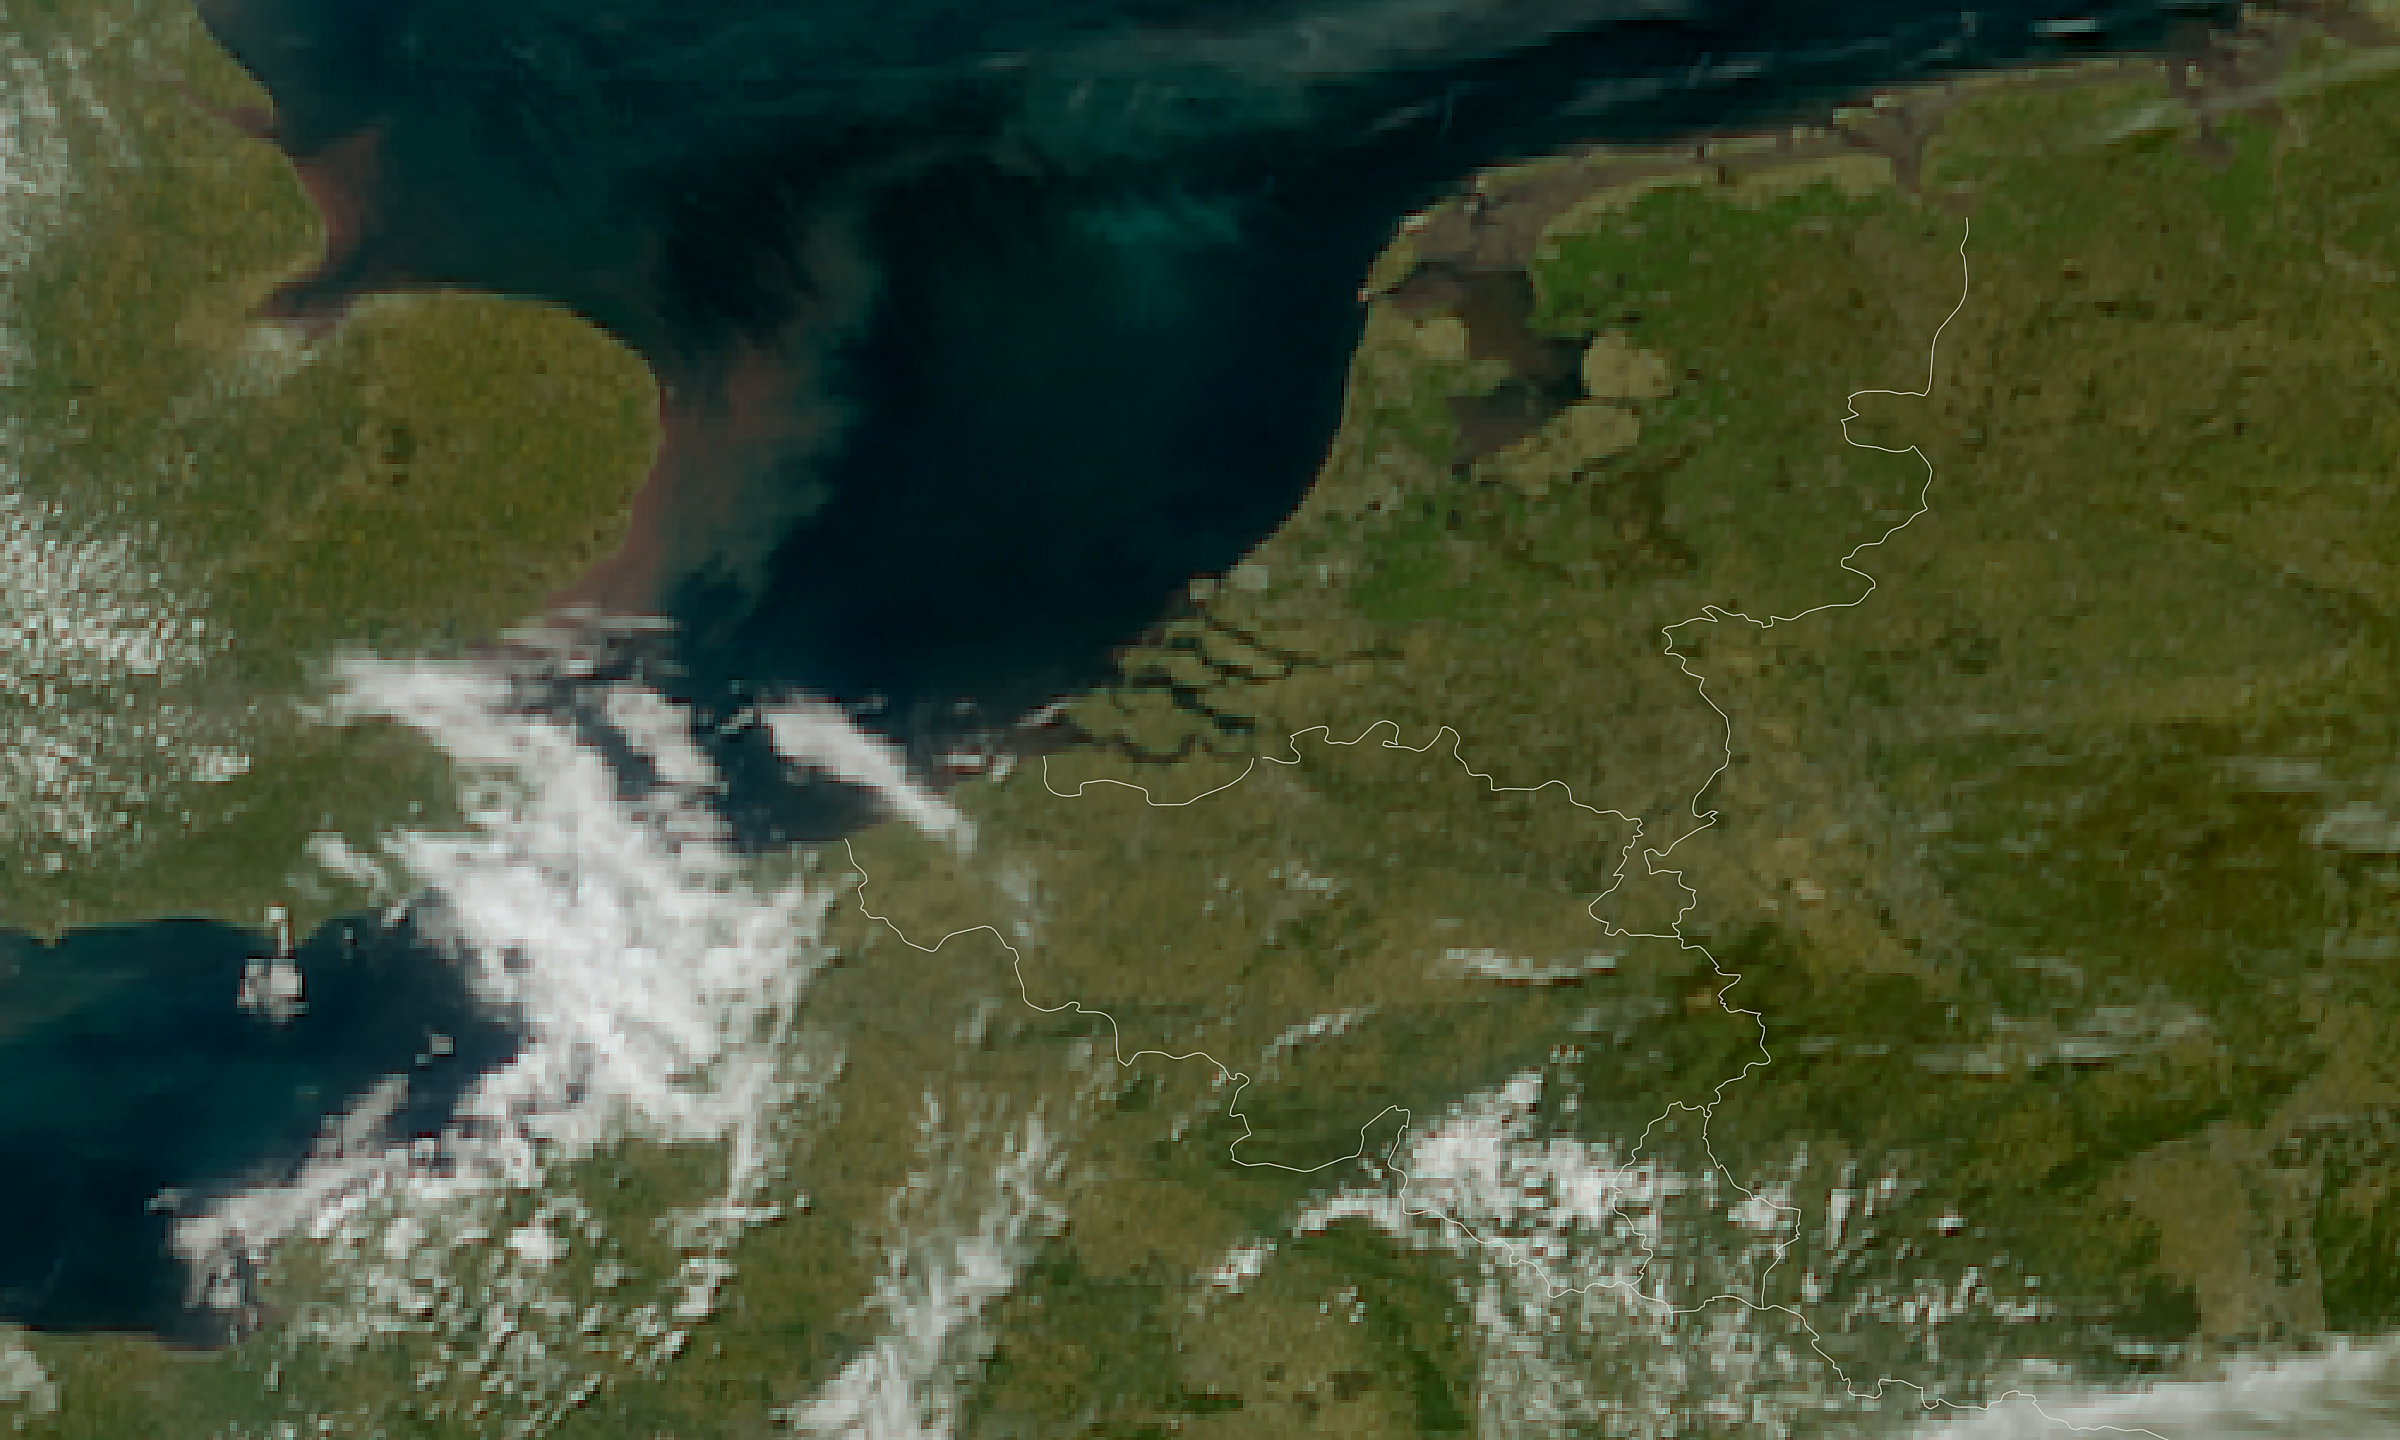
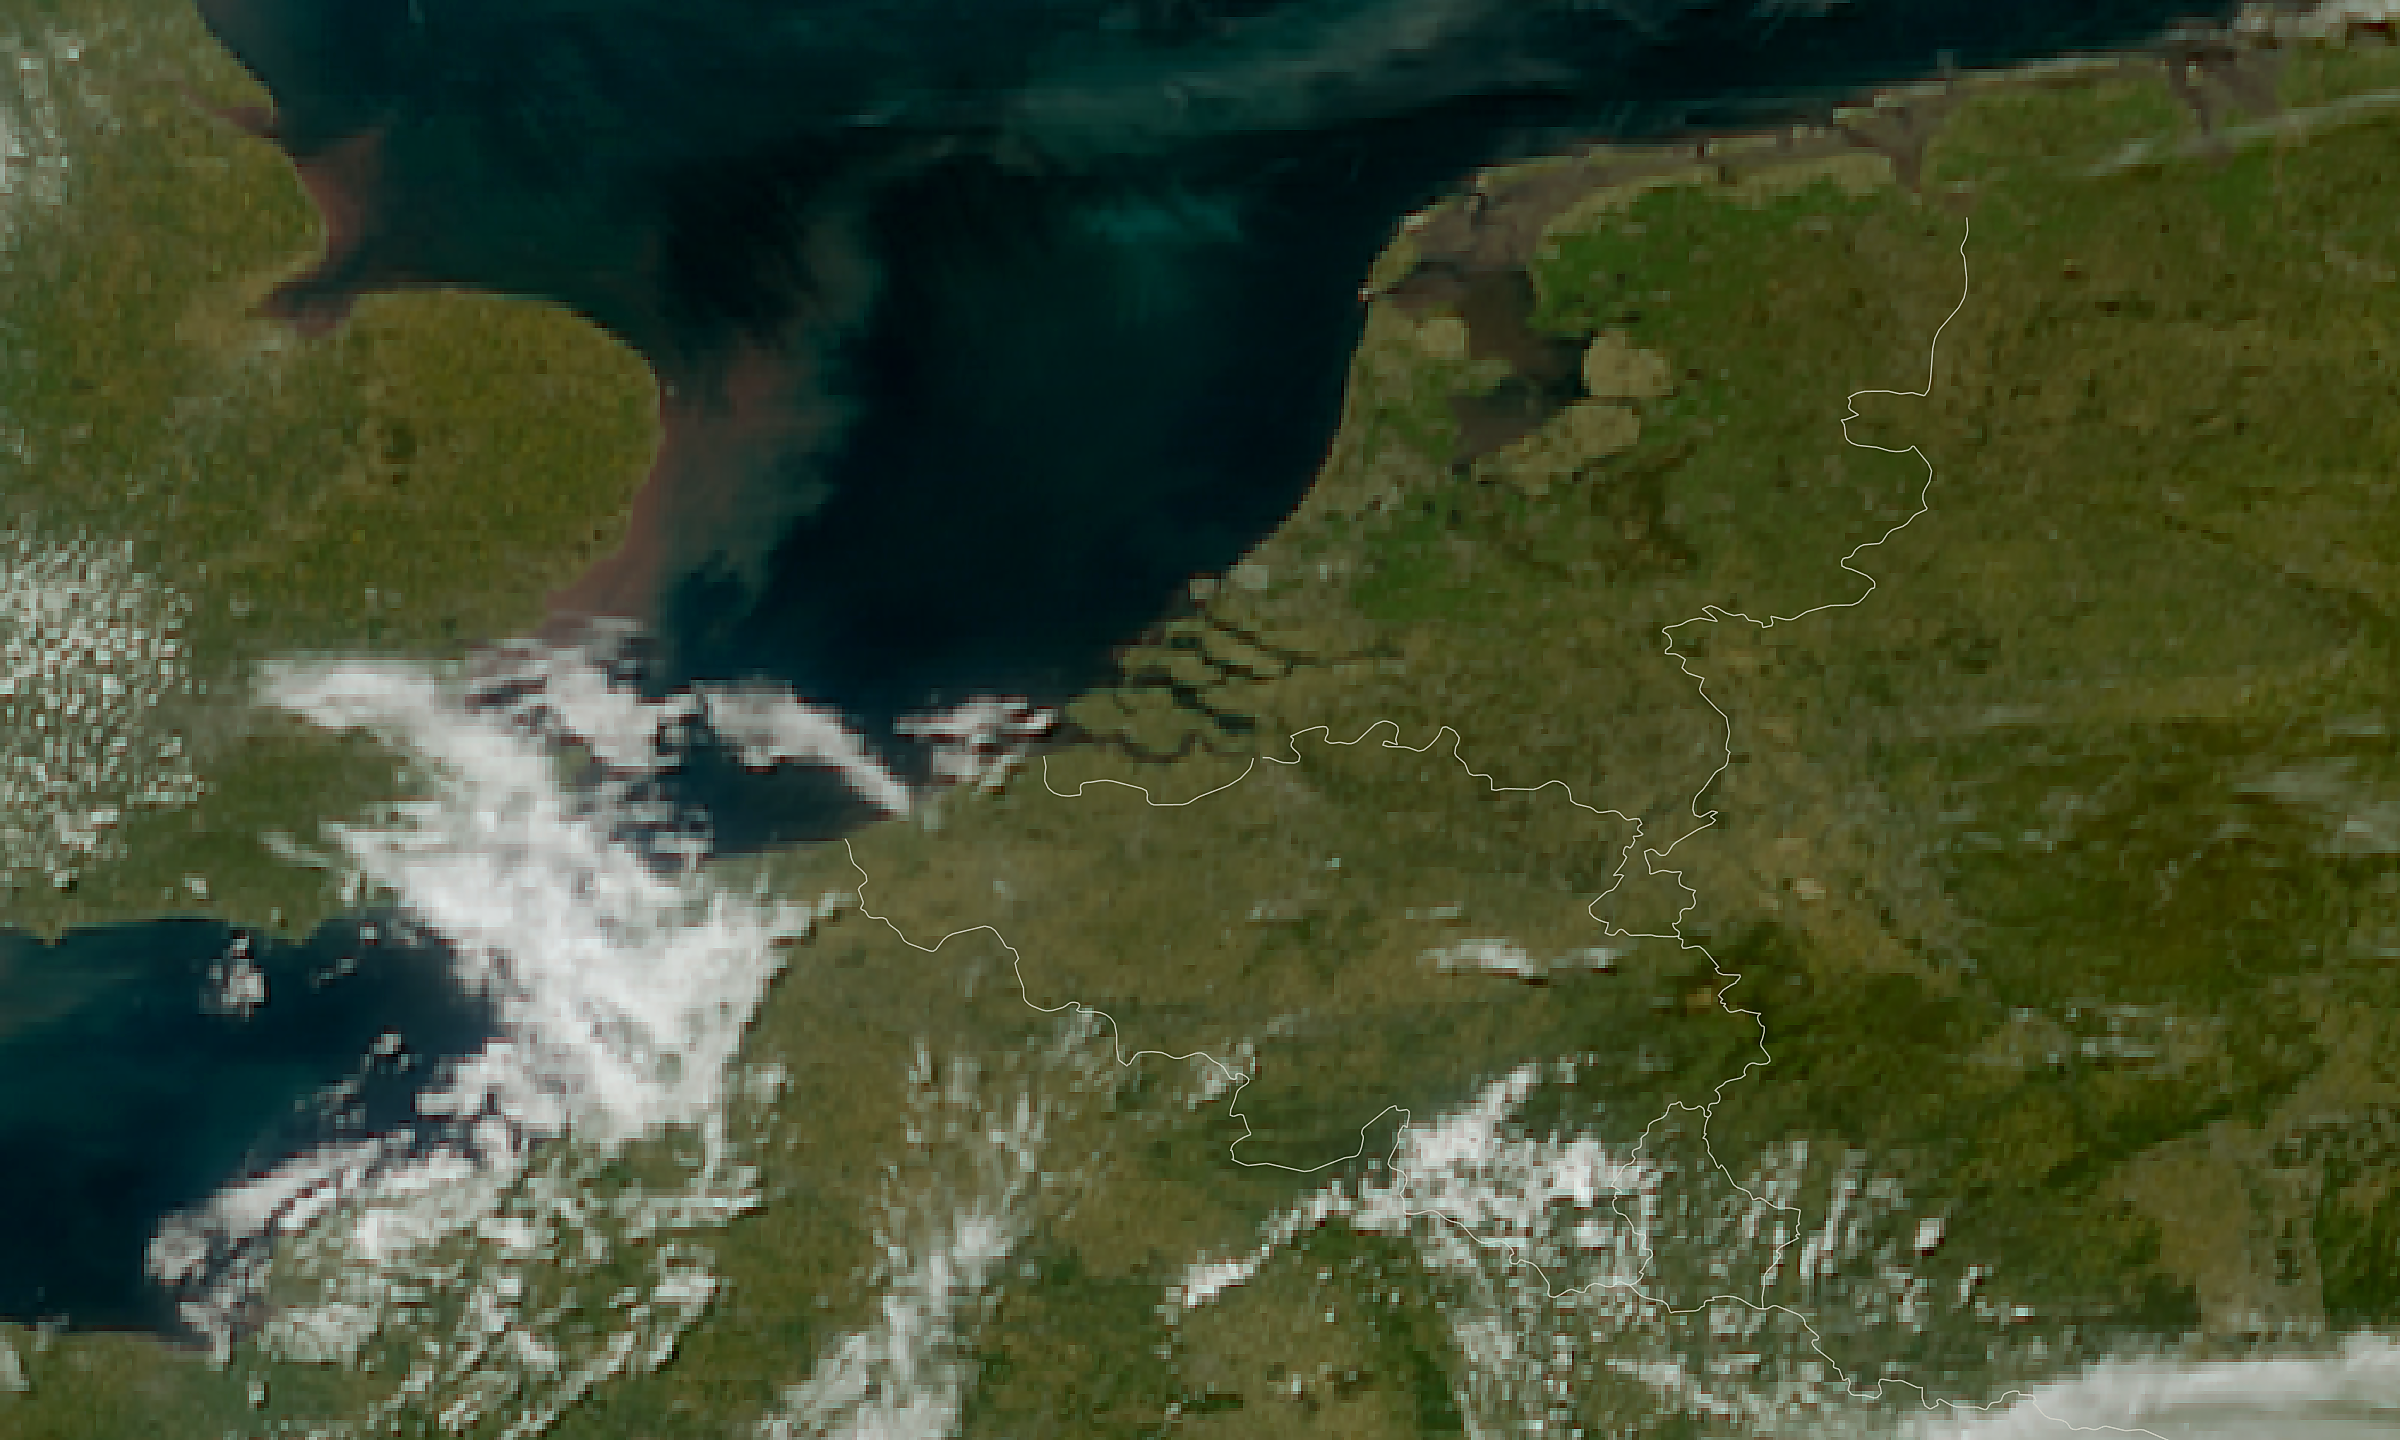
MTG Benelux satellietbeeld update 2026-04-28 16:15

diff --git a/mtg_benelux_meta.js b/mtg_benelux_meta.js
@@ -1,2 +1,2 @@
 const MTG_BENELUX_PRODUCT = "mtg_fd:rgb_truecolour";
-const MTG_BENELUX_TIJD = "2026-04-28T13:40:00Z";
+const MTG_BENELUX_TIJD = "2026-04-28T13:50:00Z";
